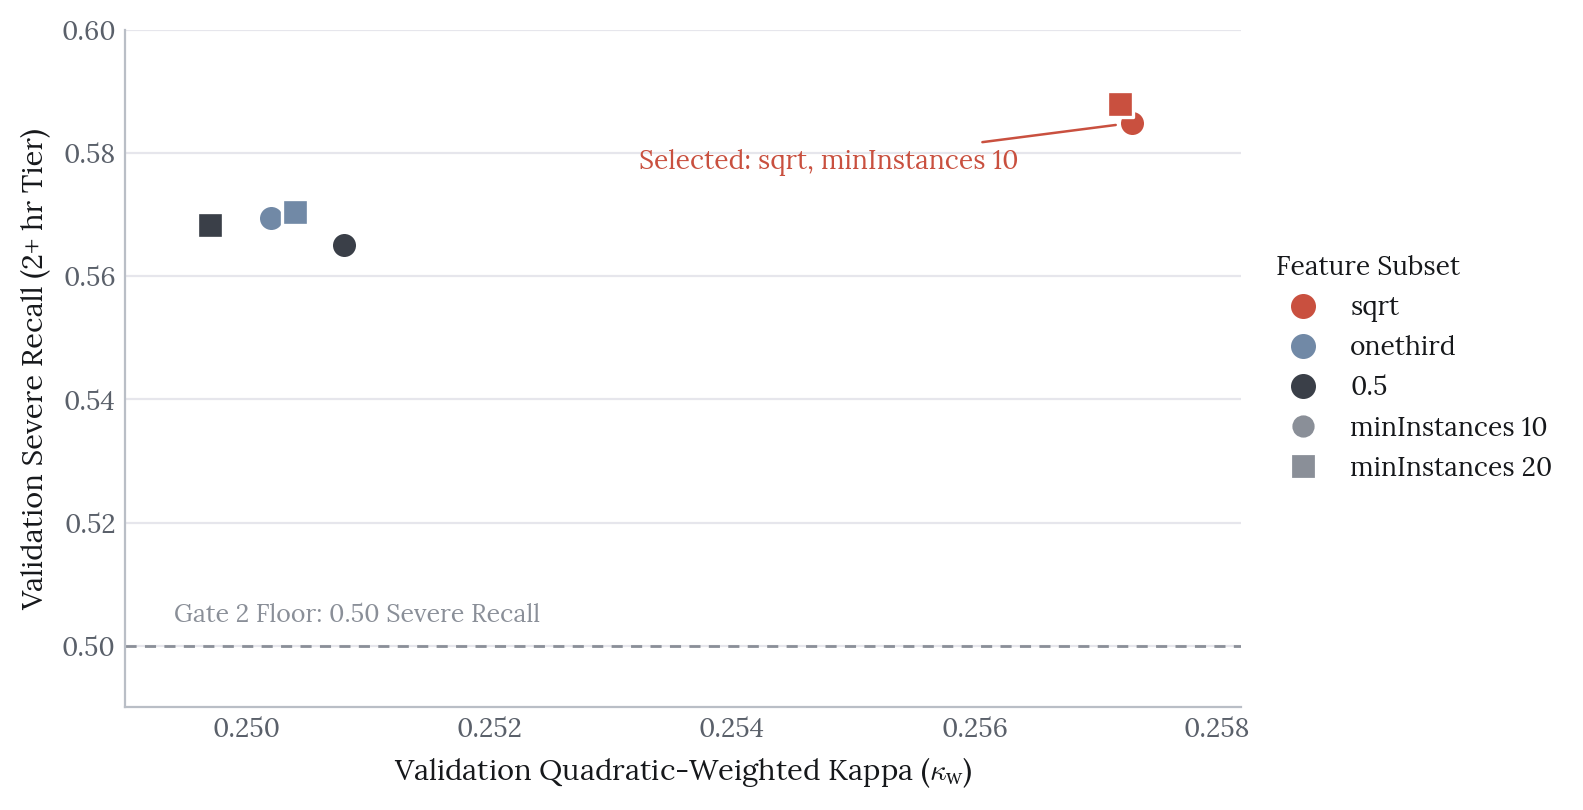
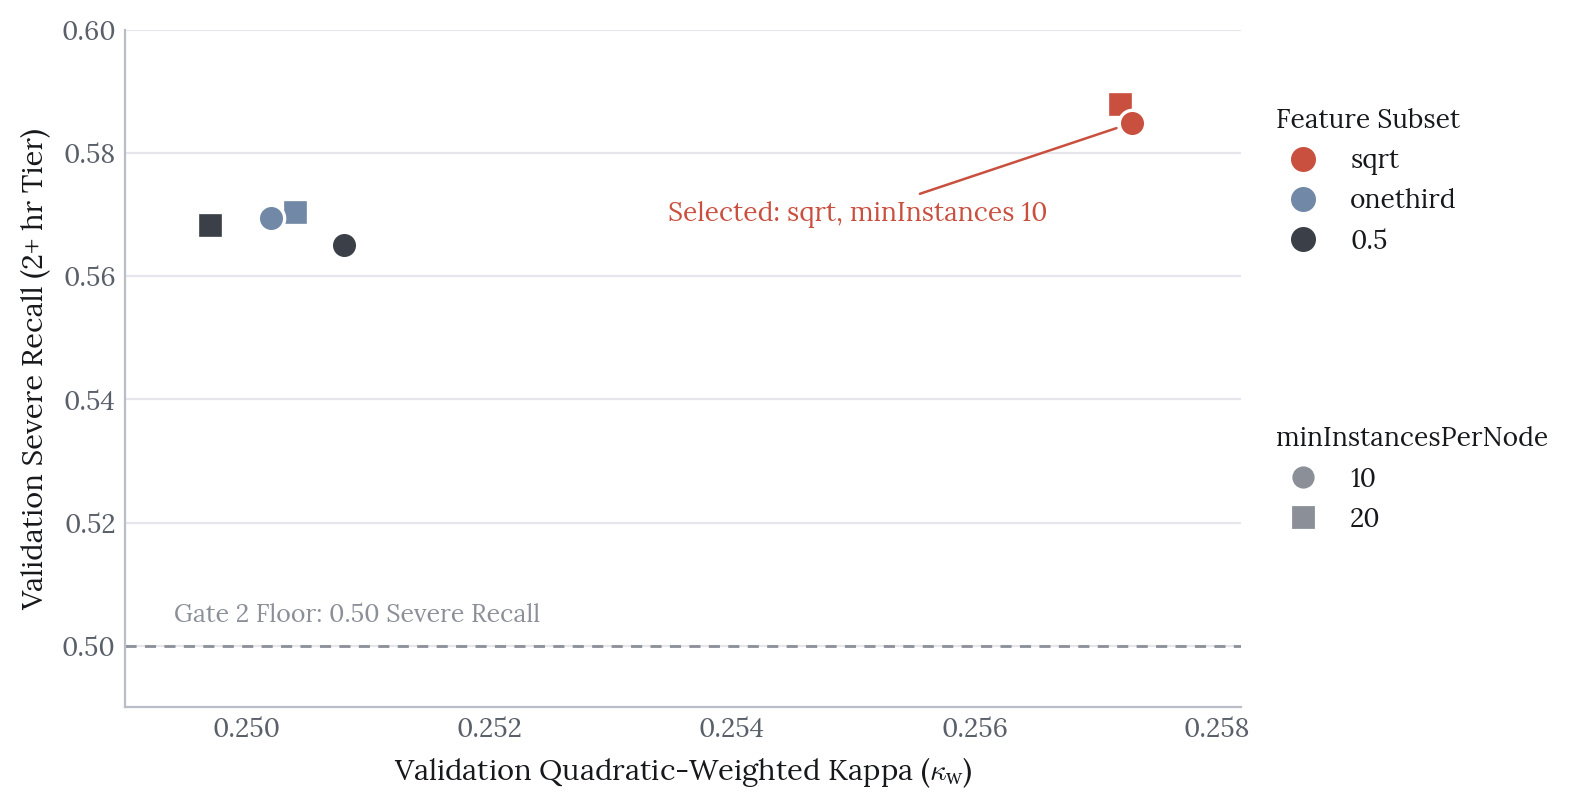
Audit fixes across all articles: figure order, captions and alt text, widths, maths labels in Lora, particle prose and headings, homepage tile wording; remove unused images

diff --git a/project/projects_files/flight-delay-spark/make_figures.py b/project/projects_files/flight-delay-spark/make_figures.py
@@ -51,14 +51,14 @@ marker = {10: "o", 20: "s"}
 fig, ax = plt.subplots(figsize=(7.2, 4.4))
 for subset, mi, k, r in grid:
     ax.scatter(k, r, s=90, marker=marker[mi], color=colour[subset],
-               edgecolors="white", linewidths=1.2, zorder=3)
+               edgecolors="white", linewidths=1.2, zorder=4 if mi == 10 else 3)
 
 ax.axhline(0.50, color=MUTED, lw=1, ls=(0, (4, 3)), zorder=1)
 ax.text(0.2494, 0.503, "Gate 2 Floor: 0.50 Severe Recall", color=MUTED,
         fontsize=9, va="bottom", ha="left")
 
 ax.annotate("Selected: sqrt, minInstances 10", xy=(0.2573, 0.5849),
-            xytext=(0.2548, 0.5775), fontsize=9.5, color=RUST, ha="center",
+            xytext=(0.2566, 0.5700), fontsize=9.5, color=RUST, ha="right", va="center",
             arrowprops=dict(arrowstyle="-", color=RUST, lw=0.9,
                             shrinkA=2, shrinkB=6))
 
@@ -68,15 +68,20 @@ ax.set_xlabel("Validation Quadratic-Weighted Kappa ($\\kappa_w$)")
 ax.set_ylabel("Validation Severe Recall (2+ hr Tier)")
 tidy(ax)
 
-handles = [
+subset_handles = [
     Line2D([0], [0], marker="o", ls="", color=RUST, markersize=8, label="sqrt"),
     Line2D([0], [0], marker="o", ls="", color=SLATE, markersize=8, label="onethird"),
     Line2D([0], [0], marker="o", ls="", color=DIM, markersize=8, label="0.5"),
-    Line2D([0], [0], marker="o", ls="", color=MUTED, markersize=7, label="minInstances 10"),
-    Line2D([0], [0], marker="s", ls="", color=MUTED, markersize=7, label="minInstances 20"),
 ]
-ax.legend(handles=handles, loc="center left", bbox_to_anchor=(1.01, 0.5),
-          title="Feature Subset", title_fontsize=9.5, alignment="left")
+leaf_handles = [
+    Line2D([0], [0], marker="o", ls="", color=MUTED, markersize=7, label="10"),
+    Line2D([0], [0], marker="s", ls="", color=MUTED, markersize=7, label="20"),
+]
+leg1 = ax.legend(handles=subset_handles, loc="upper left", bbox_to_anchor=(1.01, 0.92),
+                 title="Feature Subset", title_fontsize=9.5, alignment="left")
+ax.add_artist(leg1)
+ax.legend(handles=leaf_handles, loc="upper left", bbox_to_anchor=(1.01, 0.45),
+          title="minInstancesPerNode", title_fontsize=9.5, alignment="left")
 fig.savefig(OUT / "rf_cv_tradeoff.png", dpi=200, bbox_inches="tight", facecolor="white")
 plt.close(fig)
 

diff --git a/project/projects_files/digit-vae/train_vae.py b/project/projects_files/digit-vae/train_vae.py
@@ -33,7 +33,7 @@ import torch.nn.functional as F
 HERE = Path(__file__).resolve().parent
 REPO = HERE.parents[2]
 sys.path.insert(0, str(REPO / "scripts"))
-from figstyle import (apply, tidy, title_case, INK, SLATE, RUST, DIM,  # noqa: E402
+from figstyle import (apply, tidy, title_case, INK, SLATE, RUST, DIM, MUTED, SEQ,  # noqa: E402
                       CATEGORICAL)
 from matplotlib.colors import LinearSegmentedColormap
 
@@ -193,8 +193,8 @@ def figures(model, hist, Z, xtr, ytr, xte, yte, Xte, dev, out: Path):
     fig, ax = plt.subplots(figsize=(6.4, 4.0))
     ax.plot(H["epoch"], H["loss"], color=SLATE, label=title_case("Train total"))
     ax.plot(H["epoch"], H["val_loss"], color=RUST, label=title_case("Validation total"))
-    ax.plot(H["epoch"], H["reco"], color=SLATE, lw=1.2, alpha=.5, label=title_case("Train reconstruction"))
-    ax.plot(H["epoch"], H["kl"] * 10, color=DIM, lw=1.2, alpha=.6, label=r"Train KL ($\times$10)")
+    ax.plot(H["epoch"], H["reco"], color=SEQ[3], lw=1.2, label=title_case("Train reconstruction"))
+    ax.plot(H["epoch"], H["kl"] * 10, color=MUTED, lw=1.2, label=r"Train KL ($\times$10)")
     ax.set_xlabel("Epoch"); ax.set_ylabel(title_case("Loss per image"))
     ax.set_xlim(1, len(hist))
     ax.legend(loc="upper right"); tidy(ax)

diff --git a/project/projects_files/particle-classifier/make_figures.py b/project/projects_files/particle-classifier/make_figures.py
@@ -261,6 +261,9 @@ def main():
     ap.add_argument("--preds", help="npz with test_idx, y_true, initial_model, lr_1e-3_baseline")
     args = ap.parse_args()
     apply()
+    # Math labels ($p_x$, Production $x$) default to DejaVu; render them in Lora too.
+    plt.rcParams.update({"mathtext.fontset": "custom", "mathtext.rm": "Lora",
+                         "mathtext.it": "Lora", "mathtext.bf": "Lora:semibold"})
 
     X, truth, train_idx, test_idx = load_data()
     particle_types(X, truth, train_idx)

diff --git a/project/projects_files/flight-delay-spark/make_diagrams.py b/project/projects_files/flight-delay-spark/make_diagrams.py
@@ -244,7 +244,7 @@ model_pipeline(
                    "Trained Instead"]),
     ],
     ["Training Runs as a Spark Barrier Stage: All Workers Must Survive the Entire Fit,",
-     "So an Interrupted Run Restarts From Boosting Round Zero. All Preprocessing Statistics",
+     "so an Interrupted Run Restarts from Boosting Round Zero. All Preprocessing Statistics",
      "and Class Weights Are Fit on Training Data Only; 2019 Is Never Seen in Training or Tuning."],
     height=7.2,
 )

diff --git a/scripts/figstyle.py b/scripts/figstyle.py
@@ -129,6 +129,11 @@ def apply():
         "legend.fontsize": 9.5,
         "lines.linewidth": 2,
         "image.cmap": "site_slate",
+        # maths labels ($p_T$, $\\Delta$) in Lora too, not matplotlib's default face
+        "mathtext.fontset": "custom",
+        "mathtext.rm": SANS,
+        "mathtext.it": SANS,
+        "mathtext.bf": SANS + ":semibold",
     })
 
 
